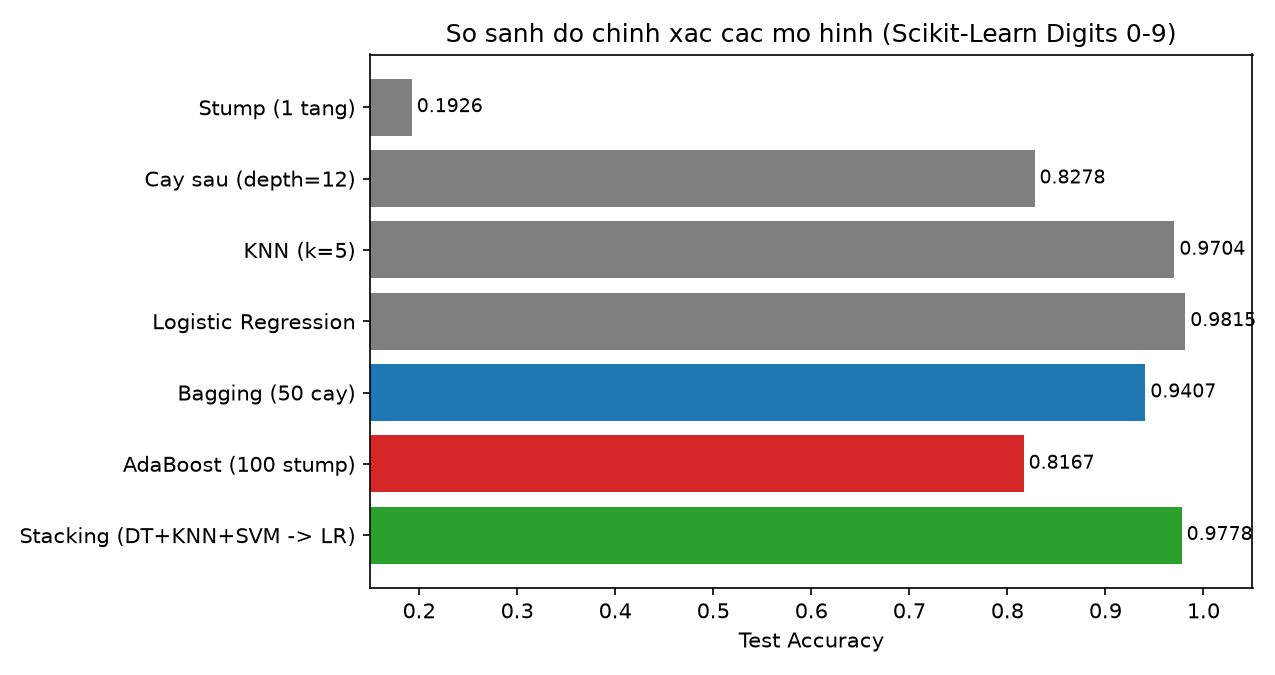
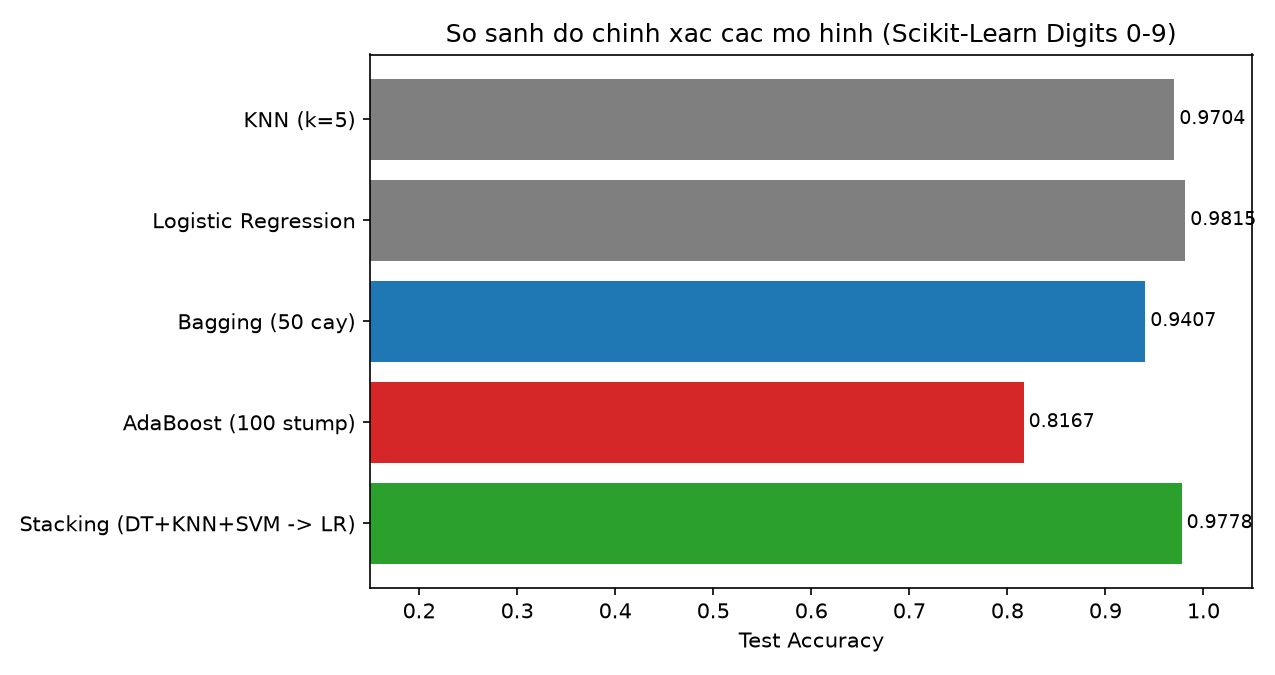
refactor: remove single stump and deep tree from all-methods comparison

diff --git a/src/utils.py b/src/utils.py
@@ -141,7 +141,8 @@ def save_visualizations(
     ax.plot(T_grid, ada_tr, "--", c="tab:red", label="AdaBoost (SAMME) - Train")
     ax.plot(T_grid, ada_te, c="tab:red", lw=1.8, label="AdaBoost (SAMME) - Test")
     ax.plot(np.arange(1, bagging_t + 1), bag_te, c="tab:blue", lw=1.8, label="Bagging - Test")
-    ax.axhline(res["Stump (1 tang)"][1], c="gray", ls=":", label="Stump don - Test")
+    if "Stump (1 tang)" in res:
+        ax.axhline(res["Stump (1 tang)"][1], c="gray", ls=":", label="Stump don - Test")
     ax.set_xlabel("So luong mo hinh (T)")
     ax.set_ylabel("Accuracy")
     ax.set_ylim(0.15, 1.02)

diff --git a/src/data.py b/src/data.py
@@ -62,8 +62,6 @@ def build_model(model_name, mode="bagging", seed=0):
 def get_base_models(seed=0):
     """Khoi tao danh sach cac mo hinh co so mac dinh de danh gia."""
     return {
-        "Stump (1 tang)": build_model("dt", mode="boosting", seed=seed),
-        "Cay sau (depth=12)": build_model("dt", mode="bagging", seed=seed),
         "KNN (k=5)": build_model("knn", seed=seed),
         "Logistic Regression": build_model("lr", seed=seed),
     }

diff --git a/train.py b/train.py
@@ -359,7 +359,7 @@ def run_all(args):
         fit_times[name] = t_fit
         acc = accuracy_score(yte, m.predict(Xte))
         test_accs[name] = acc
-        log_train(f"[{idx}/4] Fitting {name}... done in {t_fit:.4f}s | Test Acc: {acc:.4f} ({acc*100:.2f}%)")
+        log_train(f"[{idx}/{len(models)}] Fitting {name}... done in {t_fit:.4f}s | Test Acc: {acc:.4f} ({acc*100:.2f}%)")
 
     # --- [2/4] BAGGING ---
     print("\n" + "-" * 50)
